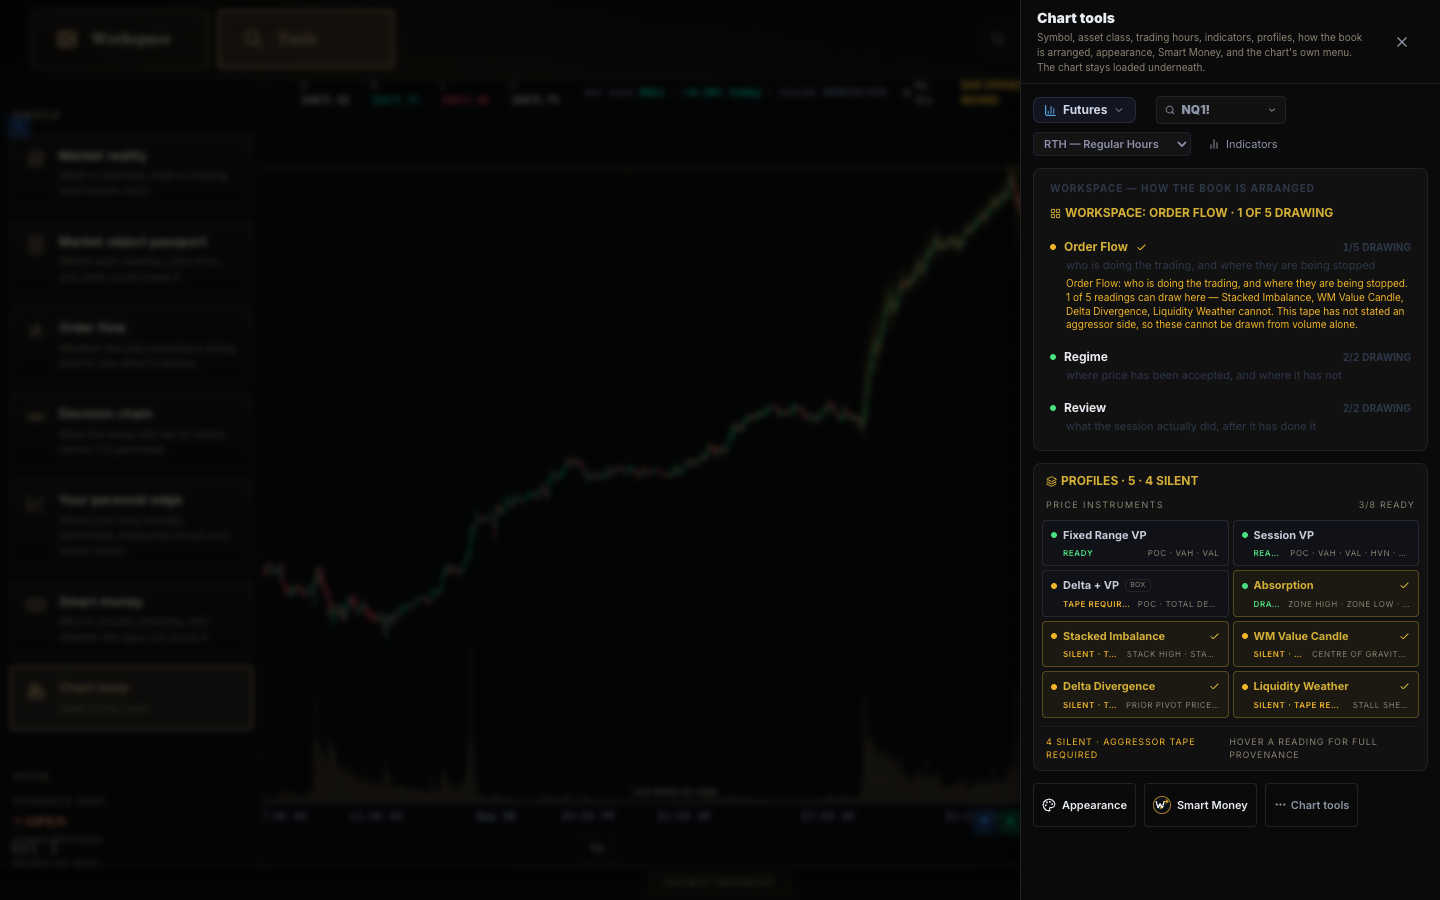
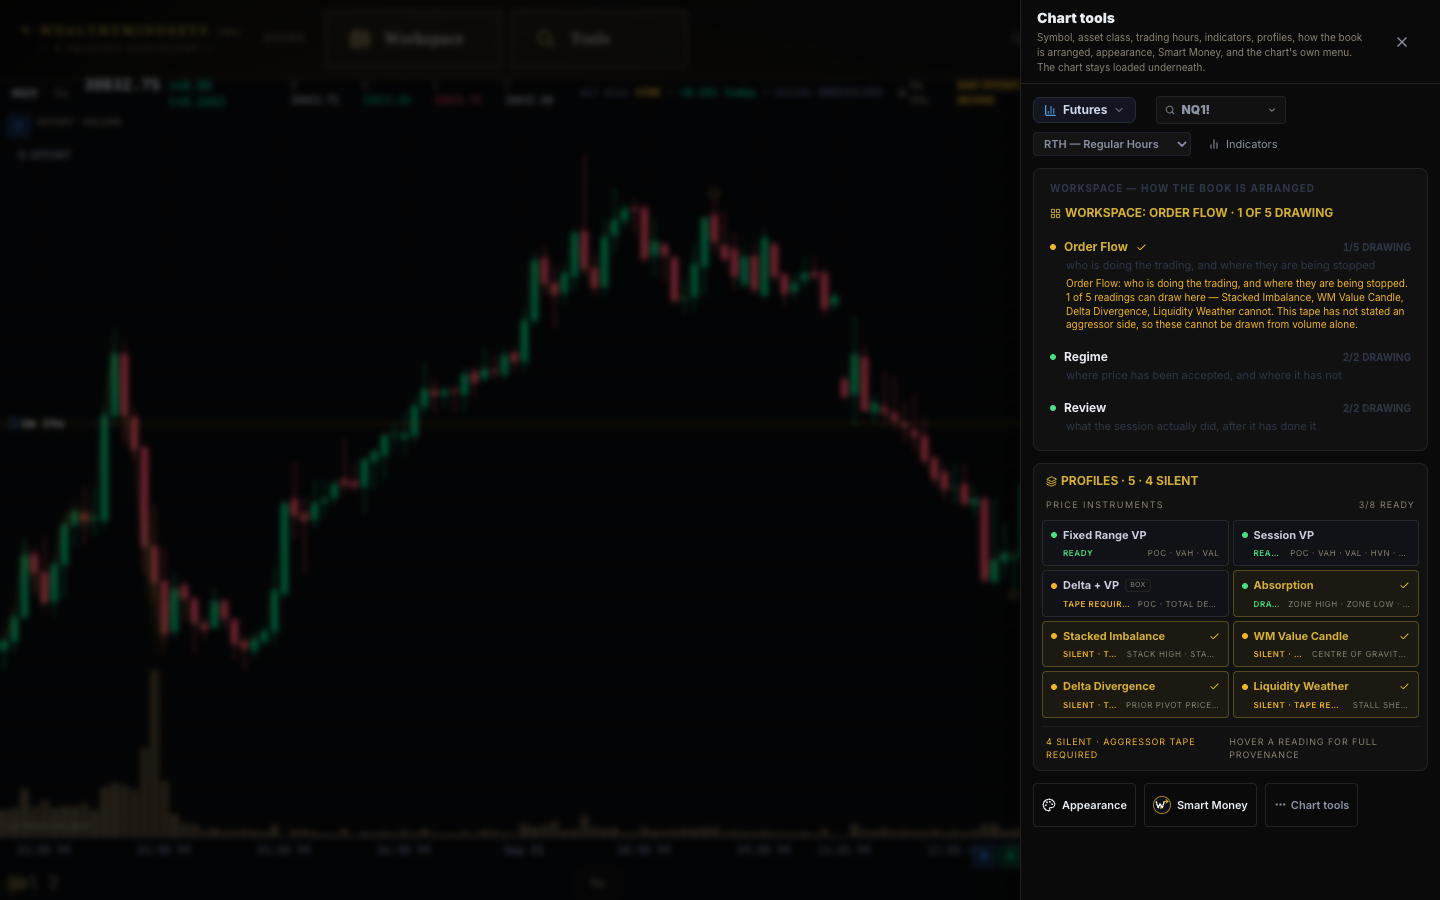
canon: add W ALIVE slot — production draws the inventions on a live tape
Measured off production tonight: on the default NQ1! room all four W-layer
receipts read UNMEASURED because no futures tape wire exists in the build
(Finnhub WS and the provider tick poll both skip futures). On BTC, with the
Coinbase tape actually speaking (273 WS frames), the same deployed code
publishes valueCandle DRAWN (22 rungs), deltaDivergence DRAWN (lean UP),
liquidityWeather DRAWN (1 shelf), heatLens DRAWN — the inventions are
physically on the glass with real canonical data.

The comparator now carries that proof: a third OS slot (W ALIVE · LIVE TAPE)
shot on the live tape, plus both existing slots re-shot at the current build.
shot-canon-prod.mjs takes an optional symbol and reads the draw receipts back
so a starved shot can never silently pass for a living one; the receipts
probe ships alongside as the measuring instrument.

diff --git a/public/canon/index.html b/public/canon/index.html
@@ -27,6 +27,7 @@
   <b>OS · 1440</b>
   <button data-o="os-latest.png" aria-pressed="true">DEFAULT</button>
   <button data-o="os-latest-tools.png" aria-pressed="false">TOOLS OPEN</button>
+  <button data-o="os-latest-w-live.png" aria-pressed="false">W ALIVE · LIVE TAPE</button>
   <button id="refresh">REFRESH</button>
   <span id="stamp"></span>
 </header>
